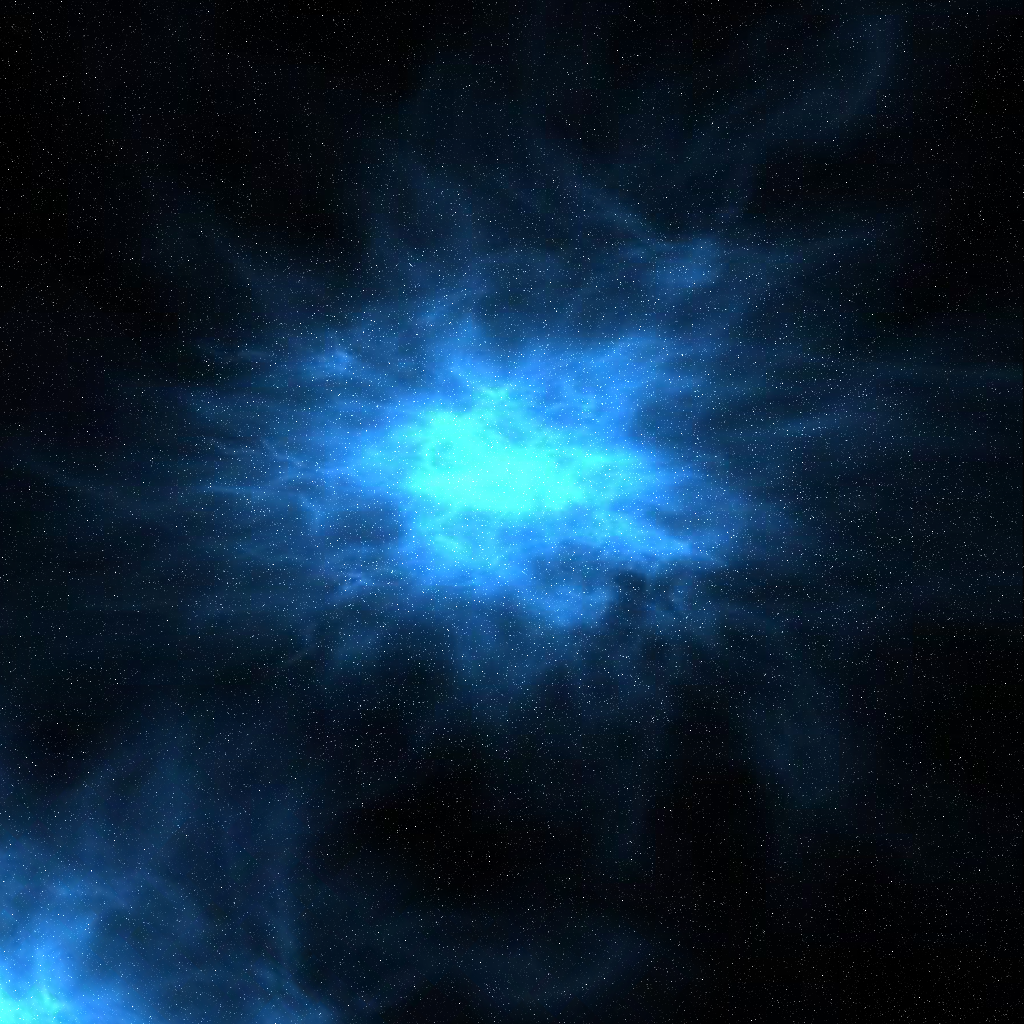
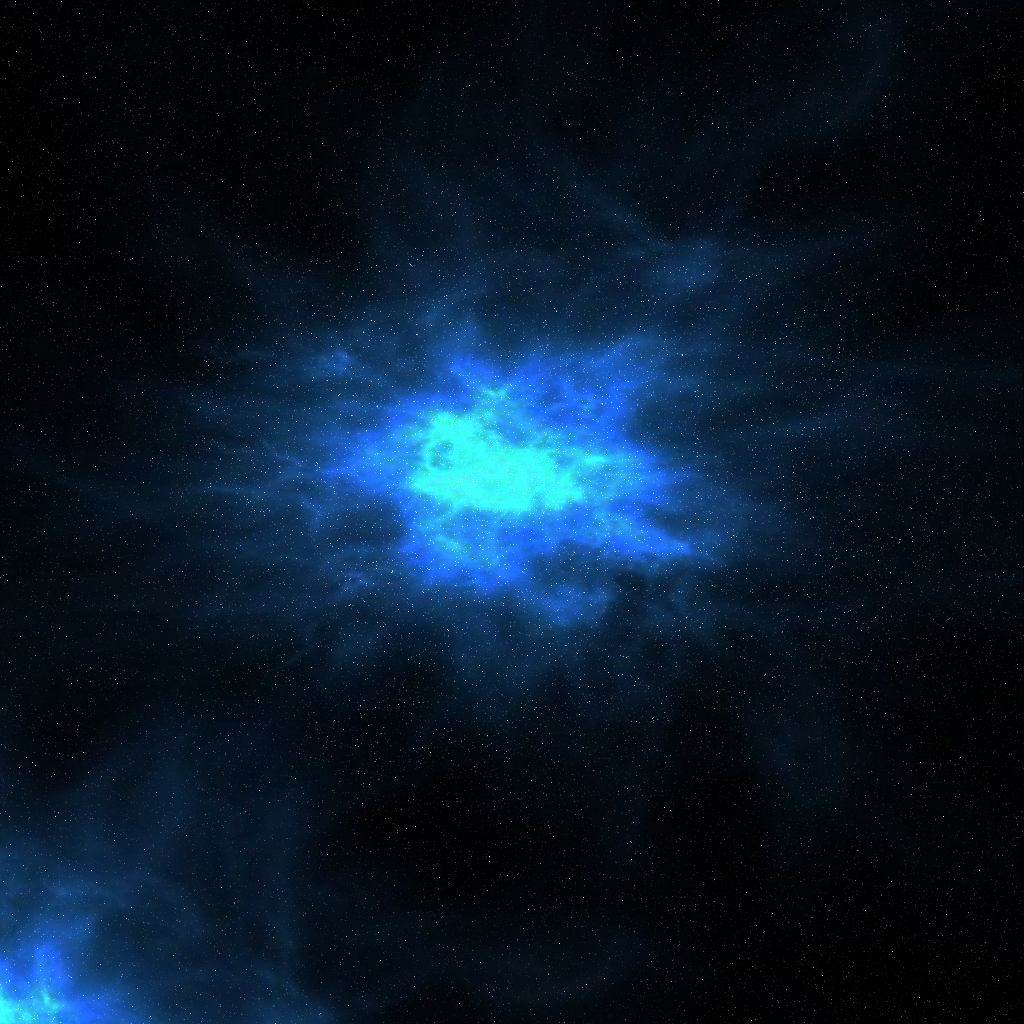
background image lightning and contrast optimized, now you can move your view with mouse on the edges, at start your view is on your planet

Changed region(s): [[0.1562, 0.1875, 0.8438, 0.6875], [0.0, 0.7188, 0.3438, 1.0]]

diff --git a/src/game/map/interstellarwar/InterstellarWar.java b/src/game/map/interstellarwar/InterstellarWar.java
@@ -8,6 +8,7 @@ import game.geom.*;
 import game.map.GameMap;
 import org.lwjgl.input.Mouse;
 import org.lwjgl.opengl.Display;
+import org.lwjgl.opengl.GL11;
 
 import java.io.*;
 import java.util.ArrayList;
@@ -20,37 +21,48 @@ import java.util.Iterator;
  */
 public class InterstellarWar extends GameMap {
 	public static final String GAME_NAME = "Interstellar War";
-
+	private static final int EDGE_MOVE_DISTANCE = 20;
+	private static final int EDGE_MOVE_UNIT = 2;
 	private Rect mBackground;
-
+	private Point2D mViewPort;
 	private int mPlanetNumber;
 	private int mConnectionNumber;
-
 	private ArrayList <Planet> mPlanets = new ArrayList <> ();
 	private ArrayList <SpaceShip> mSpaceShips = new ArrayList <> ();
 	private ArrayList <Integer[]> mConnections = new ArrayList <> ();
-
 	private boolean mWasMouseDown = false;
-
 	private Planet mSelectedPlanetFrom = null;
 	private Planet mSelectedPlanetTo = null;
-
 	private int tickNumber = 0;
 
 	@Override
-	public void initTextures () {
+	public void init () {
 		mBackground = new Rect (0, 0, Display.getWidth (), Display.getHeight ());
 		mBackground.setTexture (Textures.InterstellarWar.background);
 		for (Planet planet : mPlanets) {
 			planet.setTexture (Textures.InterstellarWar.planet[(int) (planet.getX () + planet.getY ()) % Textures.InterstellarWar.planet.length]);
 		}
+
+		mViewPort.setPosition (Display.getWidth () / 2 - mViewPort.getX (), Display.getHeight () / 2 - mViewPort.getY ());
 	}
 
 	@Override
 	public void mouseEvent () {
+		if (Mouse.getX () < EDGE_MOVE_DISTANCE) {
+			mViewPort.move (EDGE_MOVE_UNIT, 0);
+		} else if (Mouse.getX () > Display.getWidth () - EDGE_MOVE_DISTANCE) {
+			mViewPort.move (-EDGE_MOVE_UNIT, 0);
+		}
+		if (Mouse.getY () < EDGE_MOVE_DISTANCE) {
+			mViewPort.move (0, EDGE_MOVE_UNIT);
+		} else if (Mouse.getY () > Display.getHeight () - EDGE_MOVE_DISTANCE) {
+			mViewPort.move (0, -EDGE_MOVE_UNIT);
+		}
+
+
 		if (Mouse.isButtonDown (0) && !mWasMouseDown) {
 			mWasMouseDown = true;
-			Point2D point = new Point2D (Mouse.getX (), Mouse.getY ());
+			Point2D point = new Point2D (Mouse.getX () - mViewPort.getX (), Mouse.getY () - mViewPort.getY ());
 
 			for (Planet planet : mPlanets) {
 				if (planet.isInside (point) && ((UserConnection) getConnection ()).getRoomIndex () == planet.getOwnedBy ()) {
@@ -59,7 +71,7 @@ public class InterstellarWar extends GameMap {
 				}
 			}
 		} else if (Mouse.isButtonDown (0) && mWasMouseDown) {
-			Point2D point = new Point2D (Mouse.getX (), Mouse.getY ());
+			Point2D point = new Point2D (Mouse.getX () - mViewPort.getX (), Mouse.getY () - mViewPort.getY ());
 
 			boolean isThere = false;
 			for (Planet planet : mPlanets) {
@@ -78,7 +90,7 @@ public class InterstellarWar extends GameMap {
 				mWasMouseDown = false;
 
 				if (mSelectedPlanetFrom != null) {
-					Point2D point = new Point2D (Mouse.getX (), Mouse.getY ());
+					Point2D point = new Point2D (Mouse.getX () - mViewPort.getX (), Mouse.getY () - mViewPort.getY ());
 
 					for (Planet planet : mPlanets) {
 						if (planet.isInside (point) && planet.isNeighbor (mSelectedPlanetFrom)) {
@@ -109,13 +121,15 @@ public class InterstellarWar extends GameMap {
 	public void draw () {
 		mBackground.draw ();
 
+		GL11.glPushMatrix ();
+		GL11.glTranslated (mViewPort.getX (), mViewPort.getY (), 0);
 		if (mSelectedPlanetFrom != null) {
 			Point2D center1 = mSelectedPlanetFrom;
-			Util.drawCircle (center1.getX (), center1.getY (), mSelectedPlanetFrom.getRadius () + 3, Color.values ()[mSelectedPlanetFrom.getOwnedBy ()]);
+			Util.drawCircle (center1.getX (), center1.getY (), mSelectedPlanetFrom.getRadius (), Color.values ()[mSelectedPlanetFrom.getOwnedBy ()]);
 		}
 		if (mSelectedPlanetTo != null) {
 			Point2D center2 = mSelectedPlanetTo;
-			Util.drawCircle (center2.getX (), center2.getY (), mSelectedPlanetTo.getRadius () + 3, Color.values ()[mSelectedPlanetFrom.getOwnedBy ()]);
+			Util.drawCircle (center2.getX (), center2.getY (), mSelectedPlanetTo.getRadius (), Color.values ()[mSelectedPlanetFrom.getOwnedBy ()]);
 		}
 		for (Integer[] integers : mConnections) {
 			Planet planet1 = mPlanets.get (integers[0]);
@@ -140,6 +154,7 @@ public class InterstellarWar extends GameMap {
 			Color.values ()[mSelectedPlanetFrom.getOwnedBy ()].setGLColor ();
 			arrow.draw ();
 		}
+		GL11.glPopMatrix ();
 	}
 
 	@Override
@@ -185,6 +200,7 @@ public class InterstellarWar extends GameMap {
 
 	@Override
 	public void loadData (Serializable[] data) {
+		mViewPort = new Point2D (0, 0);
 		mPlanets = new ArrayList <> ();
 		mConnections = new ArrayList <> ();
 		int i = 0;
@@ -196,7 +212,11 @@ public class InterstellarWar extends GameMap {
 		mConnectionNumber = (int) data[i++];
 
 		for (int j = 0; j < mPlanetNumber; j++) {
-			mPlanets.add (new Planet ((double) data[i++], (double) data[i++], (double) data[i++], (int) data[i++], (int) data[i++]));
+			Planet newPlanet = new Planet ((double) data[i++], (double) data[i++], (double) data[i++], (int) data[i++], (int) data[i++]);
+			mPlanets.add (newPlanet);
+			if (newPlanet.getOwnedBy () == ((UserConnection) getConnection ()).getRoomIndex ()) {
+				mViewPort.setPosition (newPlanet.getX (), newPlanet.getY ());
+			}
 		}
 
 		for (int j = 0; j < mConnectionNumber; j++) {

diff --git a/src/game/ui/GameFrame.java b/src/game/ui/GameFrame.java
@@ -34,7 +34,7 @@ public class GameFrame extends Thread {
 		initGL ();
 		Util.loadTextures ();
 		Textures.loadTextures ();
-		mGameMap.initTextures ();
+		mGameMap.init ();
 
 		while (!Display.isCloseRequested ()) {
 			glClear (GL_COLOR_BUFFER_BIT);
@@ -56,7 +56,7 @@ public class GameFrame extends Thread {
 			Display.setDisplayMode (Display.getAvailableDisplayModes ()[mDisplayModeIndex]);
 			mWidth = Display.getDisplayMode ().getWidth ();
 			mHeight = Display.getDisplayMode ().getHeight ();
-			//			Display.setFullscreen (true); //#TODO
+			//						Display.setFullscreen (true); //#TODO
 			Display.setTitle (mName);
 			Display.create ();
 			Keyboard.create ();

diff --git a/src/game/ui/RoomsFrame.java b/src/game/ui/RoomsFrame.java
@@ -16,7 +16,7 @@ import java.util.HashMap;
  */
 public class RoomsFrame extends JFrame {
 	private JTable mRoomsTable;
-	private JLabel mRoomPicture;
+	private JLabel mRoomPicture;//#TODO
 	private JList mRoomUserList;
 	private JButton mJoinOrLeaveButton;
 	private JButton mStartButton;

diff --git a/src/game/map/GameMap.java b/src/game/map/GameMap.java
@@ -52,7 +52,7 @@ public abstract class GameMap extends Thread {
 		this.mMaxUsers = mMaxUsers;
 	}
 
-	public abstract void initTextures ();
+	public abstract void init ();
 
 	public abstract void mouseEvent ();
 
